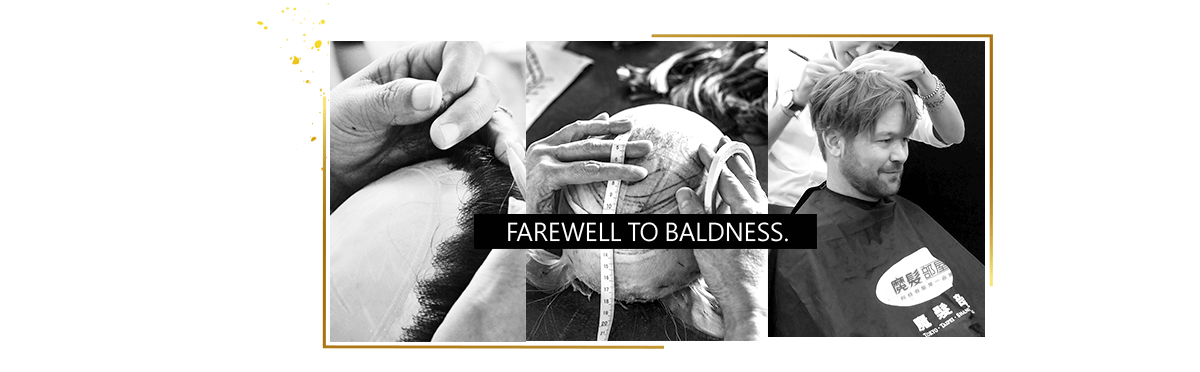
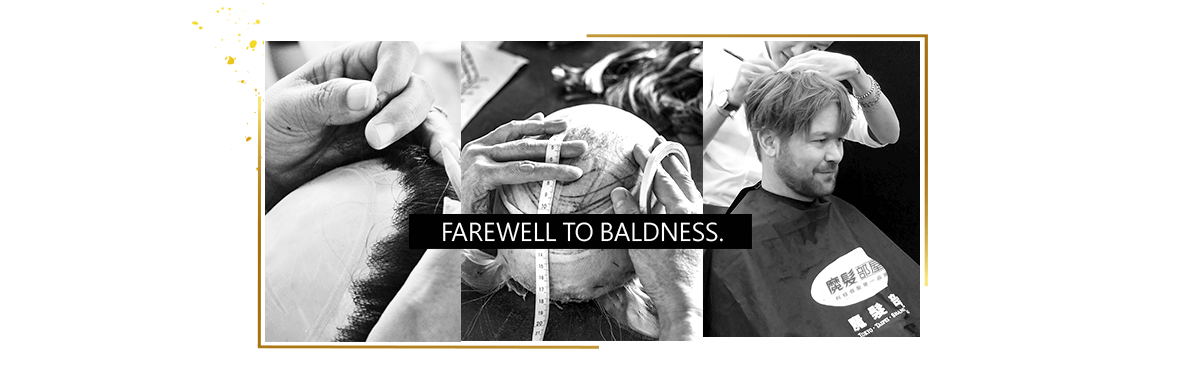
2rd edit

diff --git a/index.html b/index.html
@@ -6,9 +6,9 @@
     <meta http-equiv="X-UA-Compatible" content="IE=edge">
     <meta name="viewport" content="width=device-width, initial-scale=1">
     <link href="icon/favicon.ico" rel="shortcut icon">
-    <meta name="keywords" content="科技假髮,增髮,假髮髮片,假髮專賣店,量身訂製假髮,雄性禿">
-    <meta name="description" content="DOMO第九屆阿夫特改造計畫">
-    <title>DOMO第九屆阿夫特改造計畫</title>
+    <meta name="keywords" content="DOMO HAIR,科技假髮,素人改造,魔髮部屋,局部增髮,假髮,雄性禿,髮片">
+    <meta name="description" content="素人改造計畫全面啟動,DOMO HIAR讓你擺脫大叔形象,魔髮部屋打造時尚紳士，活動熱烈報名中">
+    <title>DOMO HAIR 紳士密令l素人改造計畫</title>
     <!-- Bootstrap -->
     <link href="css/bootstrap.min.css" rel="stylesheet">
     <link href="css/jquery-ui.min.css" rel="stylesheet">
@@ -261,7 +261,7 @@
         <div class="main_content">
             <div class="cover_block">
                 <div class="container">
-                    <img src="images/cover_img.png" alt="1" class="img-responsive" />
+                    <img class="cover_img img-responsive" src="images/cover_img.png" alt="1" />
                 </div>
                 <div class="container">
                     <div class="row">
@@ -279,6 +279,12 @@
                                 </div>
                                 <div>
                                     <img src="images/M_04.jpg" alt="4" class="img-responsive" />
+                                </div>
+                                <div>
+                                    <img src="images/M_03.jpg" alt="5" class="img-responsive" />
+                                </div>
+                                <div>
+                                    <img src="images/M_04.jpg" alt="6" class="img-responsive" />
                                 </div>
                             </div>
                             <!-- control arrows -->
@@ -308,14 +314,14 @@
                                 <br>
                                 <div class="promo_info">
                                     <div class="main_title">活動報名方式：</div>
-                                    <div class="sub_title">【第一階段】<span class="blue_text">立即報名：</span><span class="notice_text">提供至少5張以上照片</span></div>
+                                    <div class="sub_title">【第一階段】<span class="blue_text"><b>立即報名：</b></span><span class="notice_text">提供至少5張以上照片</span></div>
                                     <ul class="info_list">
                                         <li>提供照片須包含正面照、頭頂照、側面照、全身照。</li>
                                         <li>加分影片(拍攝20秒內自我介紹影片)。</li>
                                         <li>若有個人粉絲頁或是常用社群平台(直播、BLOG、PTT、IG...)，歡迎提供。</li>
                                     </ul>
                                     <br>
-                                    <div class="sub_title">【第二階段】<span class="blue_text">獲選獎項：</span><span class="notice_text">＊魔髮部屋收到以上資料後將進行審核，通過審查後將會選出入圍者們！</span></div>
+                                    <div class="sub_title">【第二階段】<span class="blue_text"><b>獲選獎項：</b></span><span class="notice_text">＊魔髮部屋收到以上資料後將進行審核，通過審查後將會選出入圍者們！</span></div>
                                     <div class="row">
                                         <div class="col-sm-6">
                                             <div class="list_title red_text">改造獎:</div>
@@ -325,7 +331,7 @@
                                             </ul>
                                         </div>
                                         <div class="col-sm-6">
-                                            <div class="list_title red_text">改造獎:</div>
+                                            <div class="list_title red_text">加碼獎:</div>
                                             <ul class="info_list">
                                                 <li>有機會獲得從頭到腳大改造穿搭。</li>
                                                 <li>歡迎自由提出其他互惠方案。</li>
@@ -333,7 +339,7 @@
                                         </div>
                                     </div>
                                     <br>
-                                    <div class="main_title">活動報名期間：<span class="notice_text red_text">即日起～2020/11/1止</span></div>
+                                    <div class="main_title">活動報名期間：<span class="notice_text red_text">即日起～2020/11/01止</span></div>
                                     <div class="list_title">注意事項：</div>
                                     <ul class="info_list">
                                         <li>須提供主辦單位照片影片等肖像使用權。</li>
@@ -473,10 +479,10 @@
                                             <div class="fill_item horizontal">
                                                 <label class="item_title must_item">目前居住地</label><div class="item_content">
                                                     <select class="form-control">
-                                                        <option value="">請選擇</option>
-                                                        <option value="">北部</option>
-                                                        <option value="">中部</option>
-                                                        <option value="">南部</option>
+                                                        <option value="" selected="">請選擇</option>
+                                                        <option value="">北部（基隆、雙北、桃園、新竹、苗栗）</option>
+                                                        <option value="">中部（臺中、彰化、南投、雲林）</option>
+                                                        <option value="">南部（嘉義、臺南、高雄、屏東、恆春）</option>
                                                     </select>
                                                 </div>
                                             </div>
@@ -492,7 +498,7 @@
                                                         <label for="photoShare" class="btn btn_style2"><span>上傳</span></label>
                                                     </div>
                                                 </div>
-                                                <div class="field_notice">5M以下/最多可上傳10張</div>
+                                                <div class="field_notice">5MB以下/最多可上傳10張</div>
                                             </div>
                                         </div>
                                     </div>
@@ -508,7 +514,7 @@
                                     </div>
                                     <div class="row">
                                         <div class="col-sm-12 col-md-8 col-md-offset-2">
-                                            <div class="fill_item horizontal">
+                                            <div class="fill_item horizontal verification_code">
                                                 <label class="item_title">驗 證 碼</label><div class="item_content verification_fill">
                                                     <input type="text" class="form-control" placeholder=""><img src="images/verification_code.jpg" alt="">
                                                 </div>
@@ -518,9 +524,9 @@
                                     <div class="row">
                                         <div class="col-sm-10 col-sm-offset-1">
                                             <br>
-                                            <p>個資法聲明 : <br>
+                                            <p class="declaration_text">個資法聲明 : <br>
                                                 魔髮部屋將遵循「個人資料保護法」妥善處理、利用本表所載之個人資料，採取資料保護措施。<br>
-                                                您有權提出要求使用、更正、補充、刪除或封鎖這些個人資料，請將任何這類需求寄至　marketing@warmsun.com.tw<br>
+                                                您有權提出要求使用、更正、補充、刪除或封鎖這些個人資料，請將任何這類需求寄至marketing@warmsun.com.tw<br>
                                             如有任何問題，請聯系魔髮部屋官方LINE(ID:@domohair)</p>
                                         </div>
                                     </div>

diff --git a/css/main.css b/css/main.css
@@ -327,11 +327,17 @@ footer .copyright span.line {
     background-size: cover;
 }
 
-.cover_block img {
+.cover_block img.cover_img  {
     width: 80%;
     margin: auto;
 }
 
+@media (max-width: 480px) {
+    .cover_block img.cover_img {
+        width: 100%;
+        margin-top: 50px;
+    }
+}
 
 .imageSlider {
     position: relative;
@@ -365,13 +371,7 @@ footer .copyright span.line {
     right: 0;
 }
 
-@media (max-width: 480px) {
 
-    .slider:before,
-    .slider:after {
-        display: none;
-    }
-}
 
 .slick-dots {
     text-align: center;
@@ -386,7 +386,7 @@ footer .copyright span.line {
 }
 
 .slick-dots li.slick-active button {
-    background-color: black;
+    background-color: #63341a;
 }
 
 .slick-dots li button {
@@ -394,14 +394,14 @@ footer .copyright span.line {
     text-shadow: none;
     color: white;
     background-color: white;
-    border: none;
-    width: 15px;
+    border: 2px solid #63341a;
+    padding: 0;
+    width: 16px;
     height: 10px;
-    border: 2px solid black;
 }
 
 .slick-dots li :hover {
-    background-color: black;
+    background-color: #63341a;
 }
 
 /* Custom Arrow */
@@ -433,15 +433,24 @@ footer .copyright span.line {
     color: #fff;
 }
 
-@media screen and (max-width: 800px) {
-
-    .prev,
+@media screen and (max-width: 768px) {
+    .prev {
+        top: 28%;
+        left: 1.5em;
+    }
     .next {
-        display: none !important;
+        top: 28%;
+        right: 1.5em;
     }
 }
 
-
+@media (max-width: 480px) {
+    .slick-dots li button {
+        width: 12px;
+        height: 8px;
+        border: 1px solid #63341a;
+    }
+}
 
 
 
@@ -470,6 +479,7 @@ footer .copyright span.line {
 
 .content_block .block_content .content_top h2 {
     font-size: 26px;
+    font-weight: bold;
     margin-top: 56px;
     padding-bottom: 0;
 }
@@ -541,14 +551,14 @@ footer .copyright span.line {
     font-size: 34px;
     font-weight: bold;
     text-align: center;
-    color: #333;
+    color: #21213D;
     line-height: 34px;
     padding: 20px 15px 10px 15px;
 }
 
 .promotion_type.nav-tabs>li>a .sub_text {
     color: #855813;
-    font-size: 16px;
+    font-size: 18px;
     font-weight: normal;
     display: block;
 }
@@ -558,7 +568,7 @@ footer .copyright span.line {
 .promotion_type.nav-tabs>li.active>a:hover {
     background-color: #d9e9fb;
     border: 0;
-    color: #333;
+    color: #21213D;
 }
 
 @media (min-width: 769px) and (max-width: 1199.98px) {
@@ -609,12 +619,13 @@ footer .copyright span.line {
 .promotion_content .main_title {
     font-size: 24px;
     color: #a87527;
+    font-weight: bold;
     margin-bottom: 12px;
 }
 
 .promotion_content .main_title .notice_text {
     font-size: 16px;
-    color: #000;
+    font-weight: normal;
 }
 
 
@@ -635,7 +646,7 @@ footer .copyright span.line {
 }
 
 .promotion_content .list_title {
-    font-size: 18px;
+    font-size: 20px;
     margin-top: 10px;
 }
 
@@ -754,7 +765,20 @@ footer .copyright span.line {
     color: #707070
 }
 
-.fill_form {}
+.fill_form .fill_item.verification_code {
+    text-align: center;
+}
+
+@media (max-width: 480px) {
+    .fill_form .fill_item.verification_code {
+        text-align: left;
+    }
+}
+
+
+.declaration_text {
+    font-size: 13px;
+}
 
 
 
@@ -867,14 +891,15 @@ footer .copyright span.line {
 .btn_facebook {
     position: fixed;
     z-index: 9999;
-    bottom: 200px;
+    bottom: 210px;
     right: 30px;
     background-color: white;
     margin-top: 20px;
     padding: 0;
+    border: none;
     border-radius: 50% !important;
-    width: 45px;
-    height: 45px;
+    width: 55px;
+    height: 55px;
 }
 
 .btn_facebook img {
@@ -890,14 +915,14 @@ footer .copyright span.line {
     position: fixed;
     z-index: 9999;
     bottom: 150px;
-    ;
     right: 30px;
     background-color: white;
     margin-top: 20px;
     padding: 0;
+    border: none;
     border-radius: 50% !important;
-    width: 45px;
-    height: 45px;
+    width: 55px;
+    height: 55px;
 }
 
 .btn_line img {

diff --git a/script/main.js b/script/main.js
@@ -102,7 +102,7 @@ $(document).ready(function(e) {
         slidesToShow: 3,
         slidesToScroll: 1,
         autoplay: true,
-        autoplaySpeed: 5000,
+        autoplaySpeed: 2000,
         responsive: [{
                 breakpoint: 1024,
                 settings: {
@@ -115,7 +115,7 @@ $(document).ready(function(e) {
             {
                 breakpoint: 600,
                 settings: {
-                    slidesToShow: 2,
+                    slidesToShow: 3,
                     slidesToScroll: 1,
                     infinite: true
                 }
@@ -123,7 +123,7 @@ $(document).ready(function(e) {
             {
                 breakpoint: 480,
                 settings: {
-                    slidesToShow: 2,
+                    slidesToShow: 3,
                     slidesToScroll: 1,
                     infinite: true
                 }
